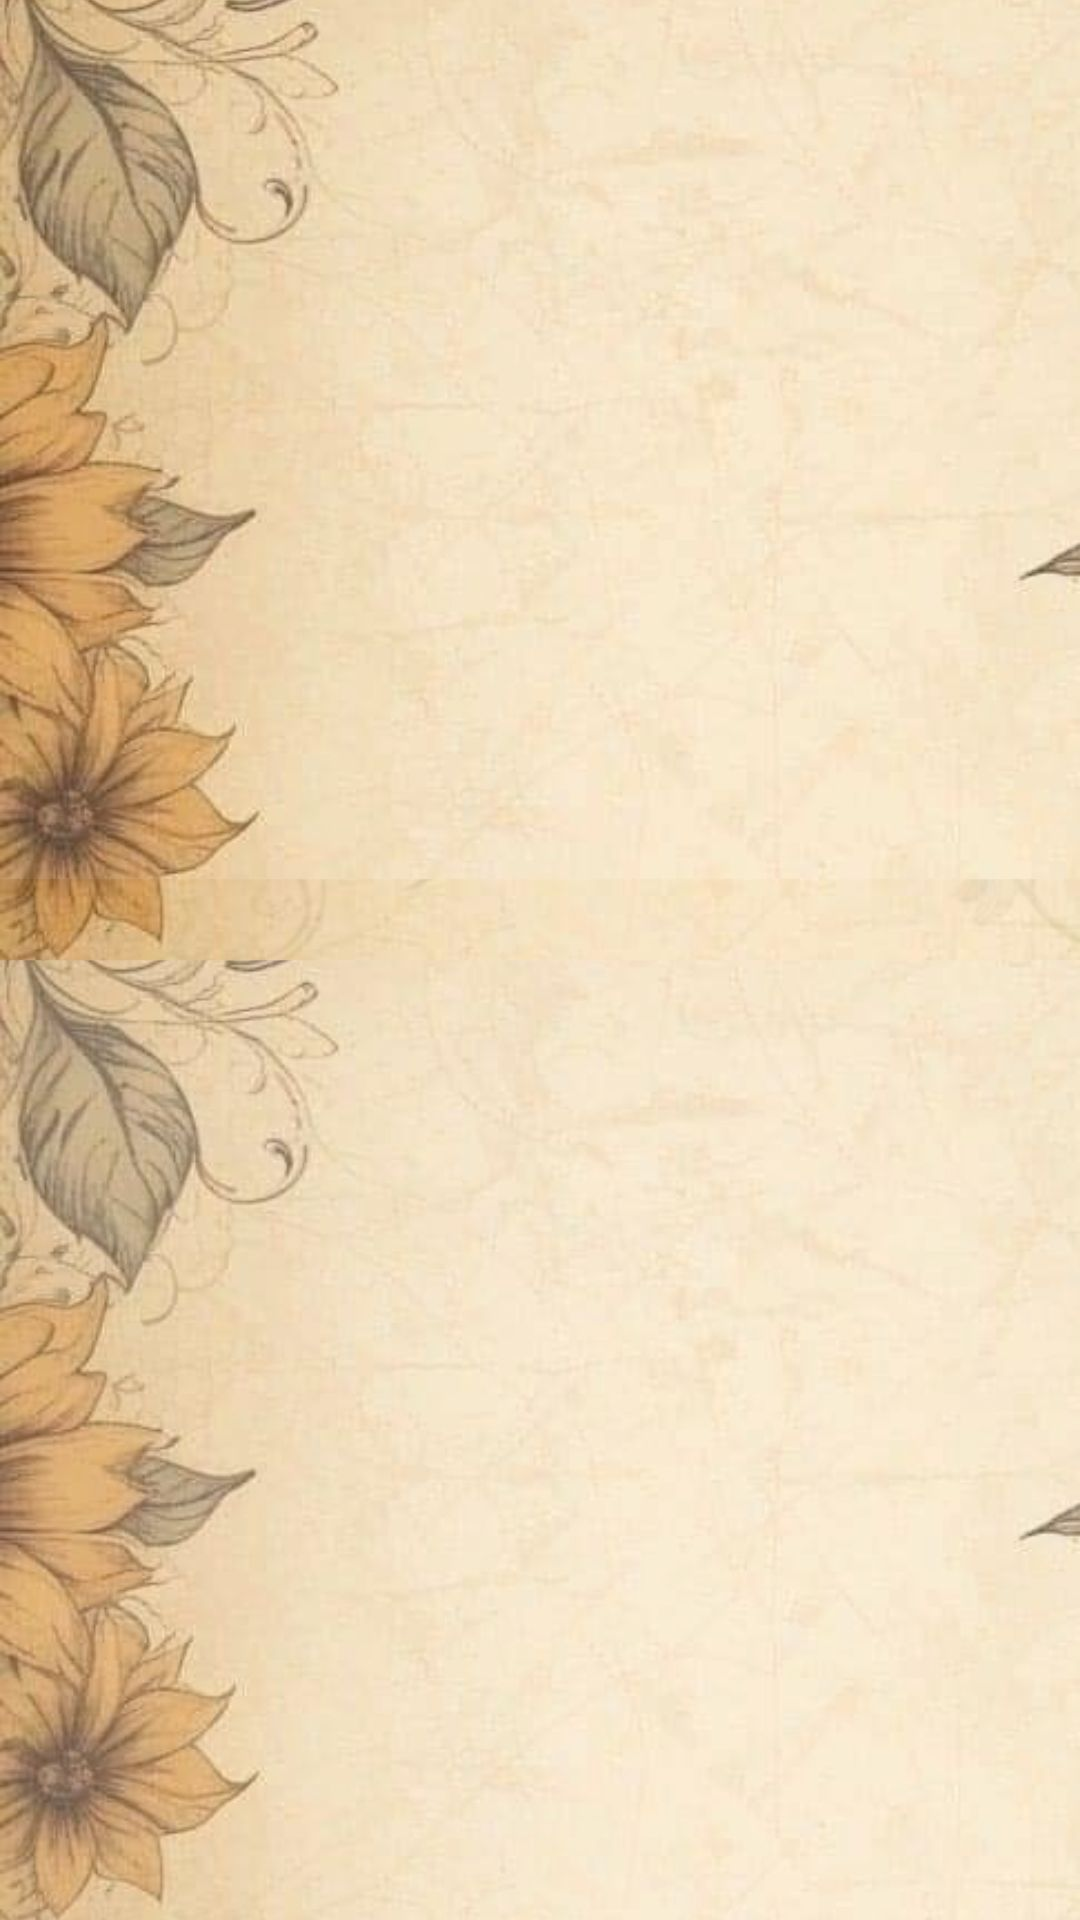
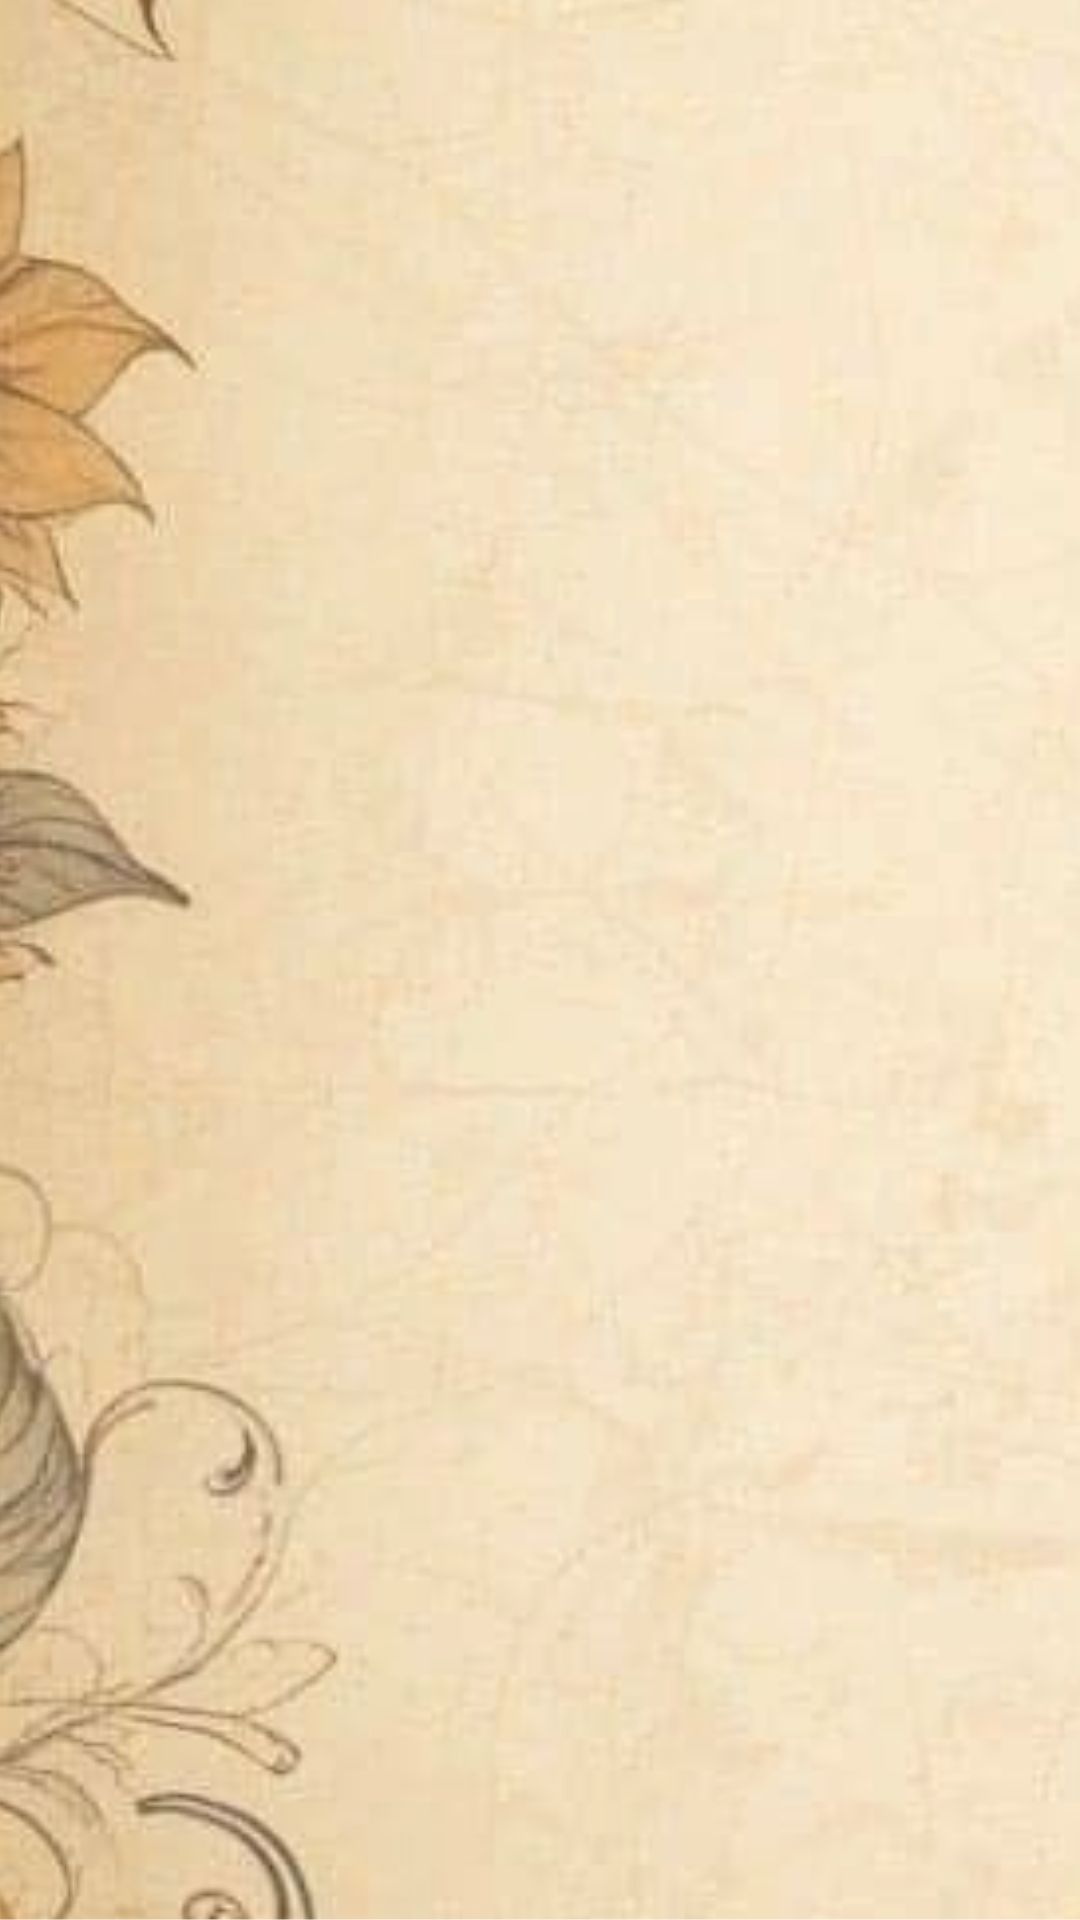
seis

diff --git a/style.css b/style.css
@@ -21,7 +21,7 @@
 * body {
     padding: 0;
     box-sizing: border-box;
-    background-image: url(./imagenes/fondo.jpg);
+    background-image: url(./imagenes/modelos\ \(7\).jpg);
     background-size: 100%;
   }
   
@@ -64,7 +64,7 @@
         justify-content: center;
         gap: 1em;
         padding: 0.3em;
-        margin-top: 15%;
+        margin-top: 10%;
     }
     
   .portada{
@@ -170,7 +170,7 @@
 .almanaque{
     width: 85%;
     margin-left: 10%;
-    margin-top: -8%;
+    margin-top: -25%;
     
   }
   
@@ -178,16 +178,25 @@
 .programa{
     width: 82%;
     margin-left: 17%;
-    margin-top: -17%;
+    margin-top: -39%;
     
   }
+
+ 
+.programados{
+    width: 82%;
+    margin-left: 17%;
+    margin-top: -47%;
+    
+  }
+
     .parrafo1{
       text-align: center;
       font-family: 'Julius Sans One', sans-serif;
            font-size: 20px;
            color: #626262;
            font-weight: 600;
-           margin-top: 20%;
+        
     }
   .seccion-fiesta{
     margin-top: -5%;
@@ -199,7 +208,7 @@
     .parrafo1{
       text-align: center;
       font-family: 'Julius Sans One', sans-serif;
-           font-size: 17px;
+           font-size: 18px;
            color: #1c1c1c;
            font-weight: 800;
            margin-left: -25%;
@@ -207,21 +216,67 @@
     }
   .ceremonia{
     text-align: center;
-    font-size: 23px;
+    font-size: 24px;
     color: #8c6721;
-    margin-top: -115%; 
+    margin-top: -187%; 
+    font-weight: 600;
+    margin-left: -25%;
+    font-family: 'Dancing Script', cursive; 
+  }
+
+ .almuerzo{
+    text-align: center;
+    font-size: 24px;
+    color: #8c6721;
+    margin-top: 8%; 
     font-weight: 600;
     margin-left: -25%;
     font-family: 'Dancing Script', cursive; 
   }
 
 
+    .parrafo2{
+      text-align: center;
+      font-family: 'Julius Sans One', sans-serif;
+           font-size: 18px;
+           color: #1c1c1c;
+           font-weight: 800;
+           margin-left: -25%;
+           margin-top: 2%;
+    }
 
 
+.vestimenta{
+    text-align: center;
+    font-size: 24px;
+    color: #8c6721;
+    margin-top: 15%; 
+    font-weight: 600;
+    margin-left: -20%;
+    font-family: 'Dancing Script', cursive; 
+  }
 
 
+    .parrafo3{
+      text-align: center;
+      font-family: 'Julius Sans One', sans-serif;
+           font-size: 17px;
+           color: #1c1c1c;
+           font-weight: 900;
+           margin-left: -20%;
+           margin-top: 2%;
+    }
 
 
+.fin{
+    text-align: center;
+    font-size: 24px;
+    color: #8c6721;
+    margin-top: 27%; 
+    font-weight: 600;
+    margin-left: -15%;
+    font-family: 'Dancing Script', cursive; 
+  }
 
 
 
@@ -347,15 +402,6 @@ margin-left:-15% ;
   background-image: url(./imagenes/5af1f7230024abf57e8020427471018e.gif);
   background-size:30%;
 
-}
-.parrafo3{
-  text-align: center;
-    font-size: 25px;
-    color: #4c4c4c;
-    margin-top: 5%; 
-    font-family: "Arsenal SC", sans-serif;
-    font-weight: 400;
-       
 }
 
 

diff --git a/index.html b/index.html
@@ -105,8 +105,8 @@
 <img class="almanaque" src="./imagenes/almanaque.png" alt="">
 
 
-<img class="programa" src="./imagenes/programa.png" alt="">
-   
+<img class="programa" src="./imagenes/ptogramauno.png" alt="">
+   <img class="programados" src="./imagenes/programados.png" alt="">
 
 <h1 class="ceremonia">Ceremonia/Civil</h1>
 <p class="parrafo1">
@@ -114,6 +114,20 @@ Jardín Japonés <br>
 Av.Casares y Av.del <br> Libertador. <br>
 Horario: 10:00hs</p>
 
+
+
+<h2 class="almuerzo">Almuerzo</h2>
+<p class="parrafo2">Dulce María <br>
+General Pacheco <br> 1545 - Martínez <br>
+12:00 Hs </p>
+
+
+<h3 class="vestimenta">Vestimenta</h3>
+<p class="parrafo3">Elegante Sport</p>
+
+
+
+<h4 class="fin">Fin</h4> 
 
   <script>
     window.addEventListener('load', () => {
